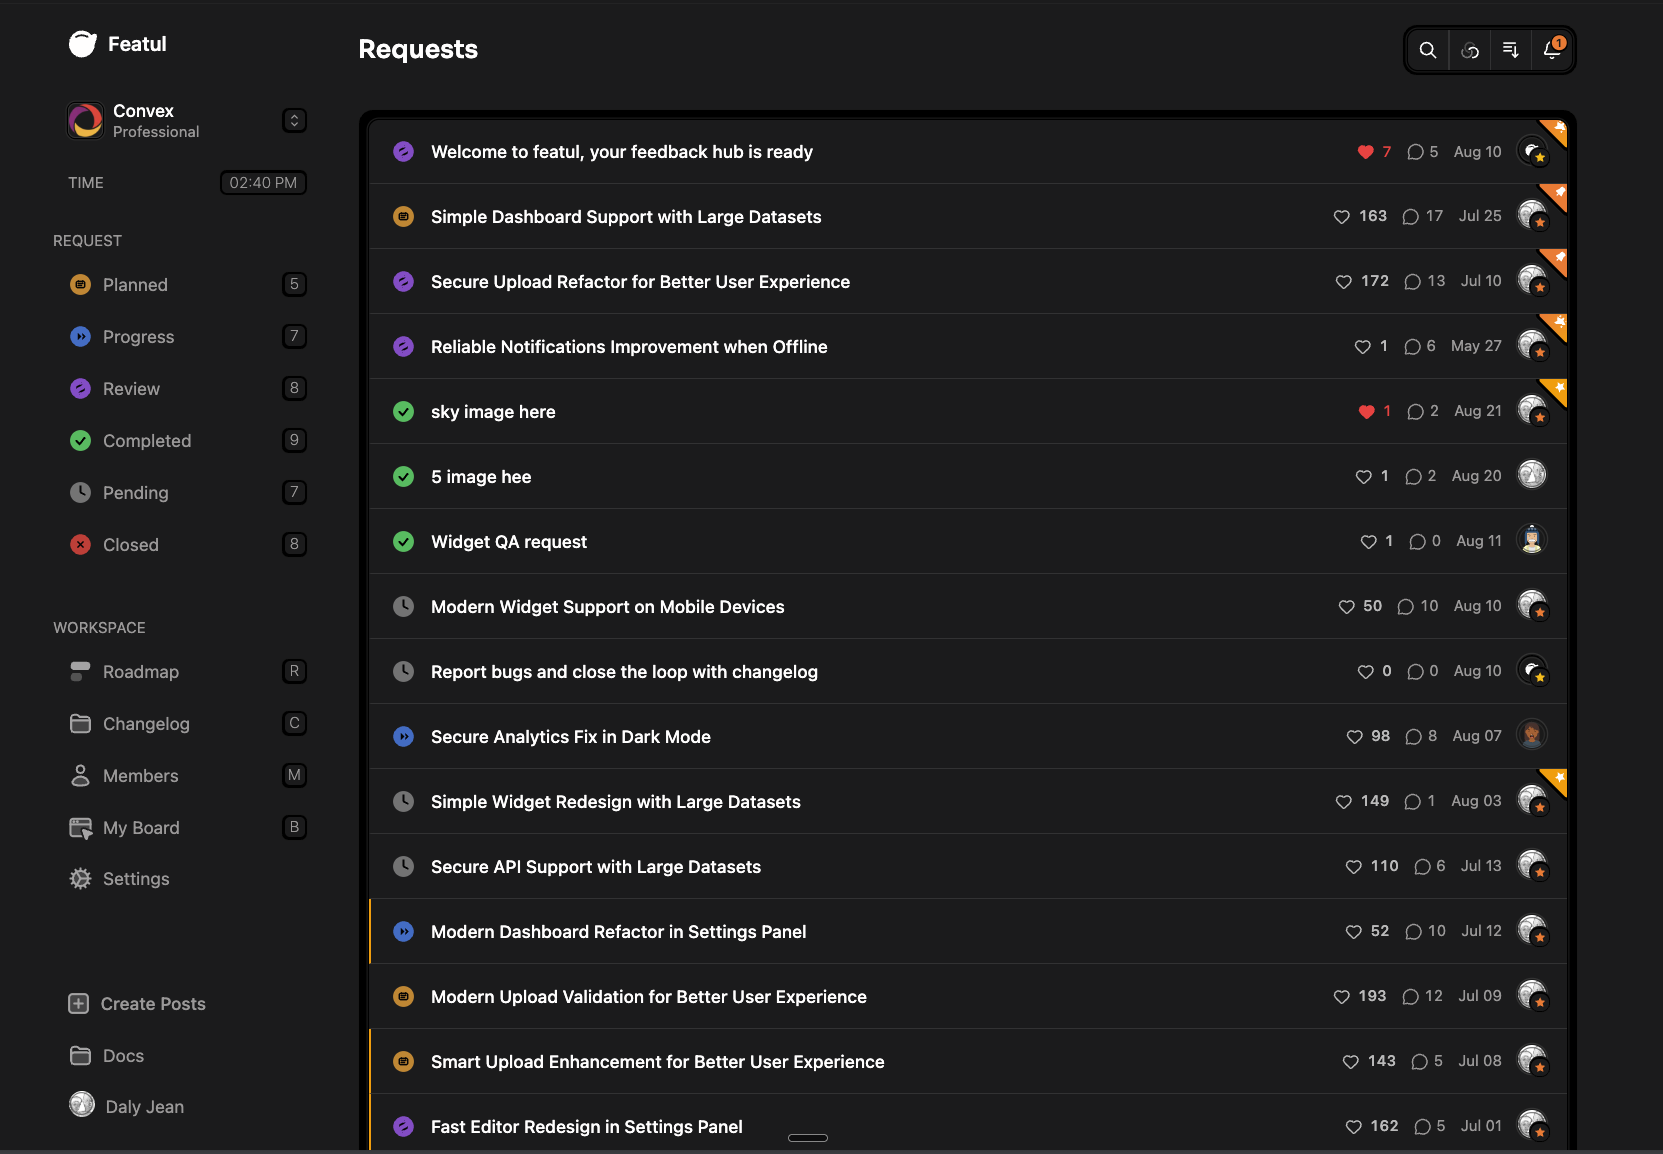
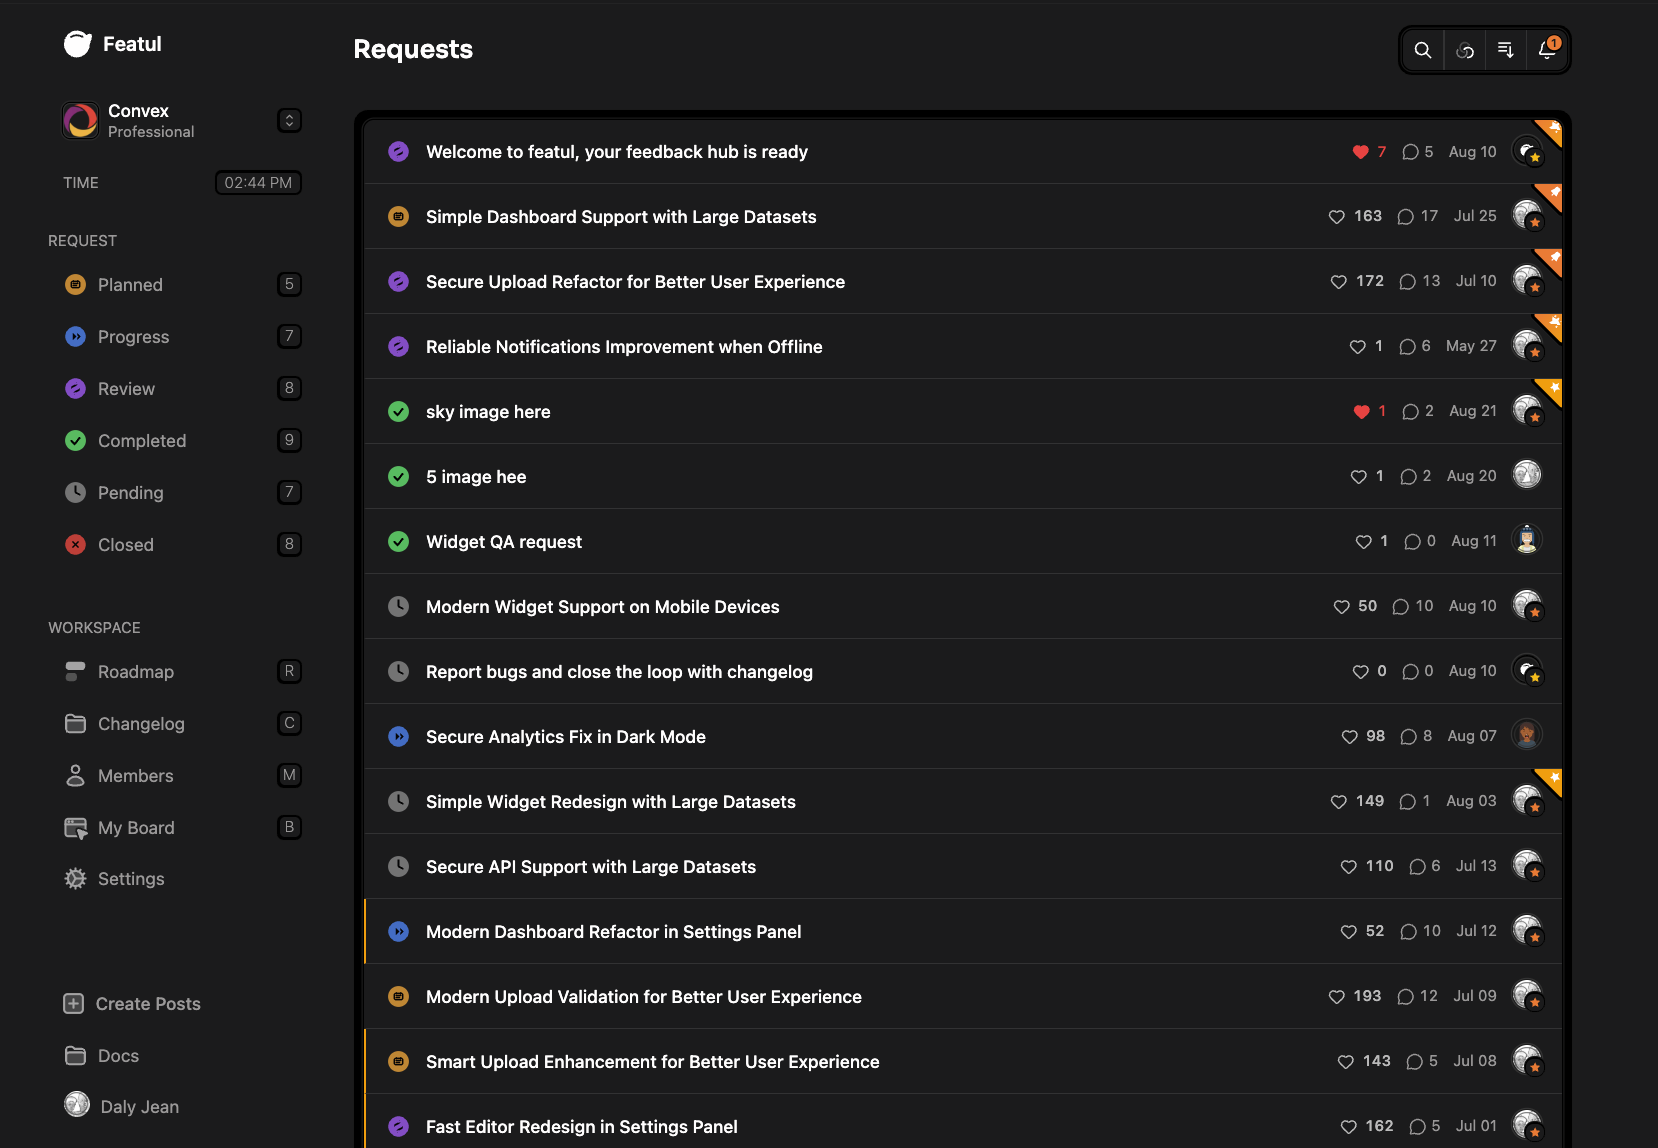
Update StepWizardForm styles to use 'bg-primary' for active steps, enhancing visual consistency; replace dashboard image with a new version.

diff --git a/apps/app/src/components/wizard/StepWizardForm.tsx b/apps/app/src/components/wizard/StepWizardForm.tsx
@@ -188,7 +188,7 @@ export default function StepWizardForm({
               {steps.map((item, i) => (
                 <div
                   key={item.id}
-                  className={`h-1 rounded-full ${i <= step ? "bg-foreground" : "bg-foreground/20"}`}
+                  className={`h-1 rounded-full ${i <= step ? "bg-primary" : "bg-primary/20"}`}
                   style={{ width: i === step ? 32 : 18 }}
                 />
               ))}
